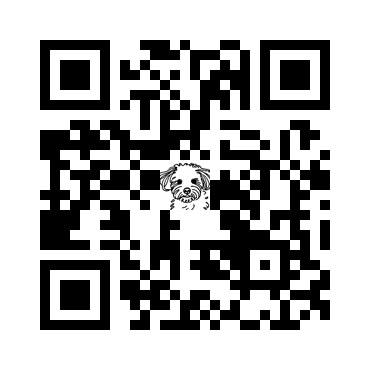
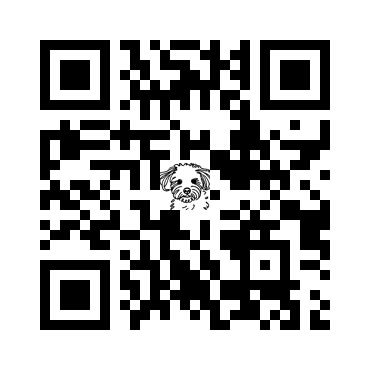
no ip

diff --git a/generate_qr_code.py b/generate_qr_code.py
@@ -1,8 +1,16 @@
 import qrcode
 from PIL import Image
+from dotenv import load_dotenv
+import os
+
+# Load environment variables from the .env file
+load_dotenv()
+
+# Get the public IP address from the environment variable
+public_ip = os.getenv('PUBLIC_IP')
 
 # The URL you want to encode in the QR code
-url = "http://192.168.86.121:8080/"
+url = f"http://{public_ip}:8080/"
 
 # Generate the QR code
 qr = qrcode.QRCode(
